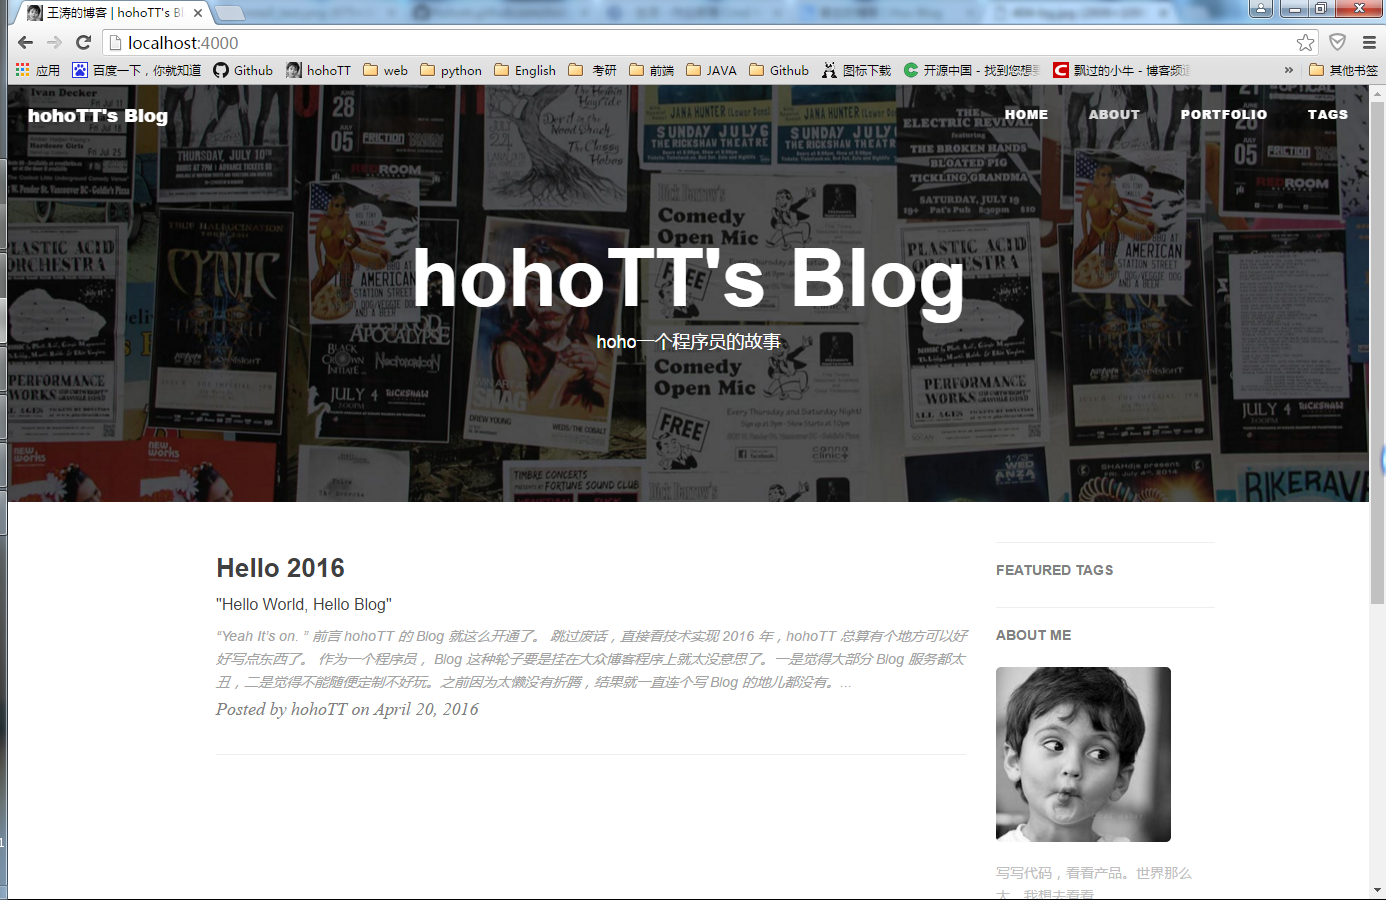
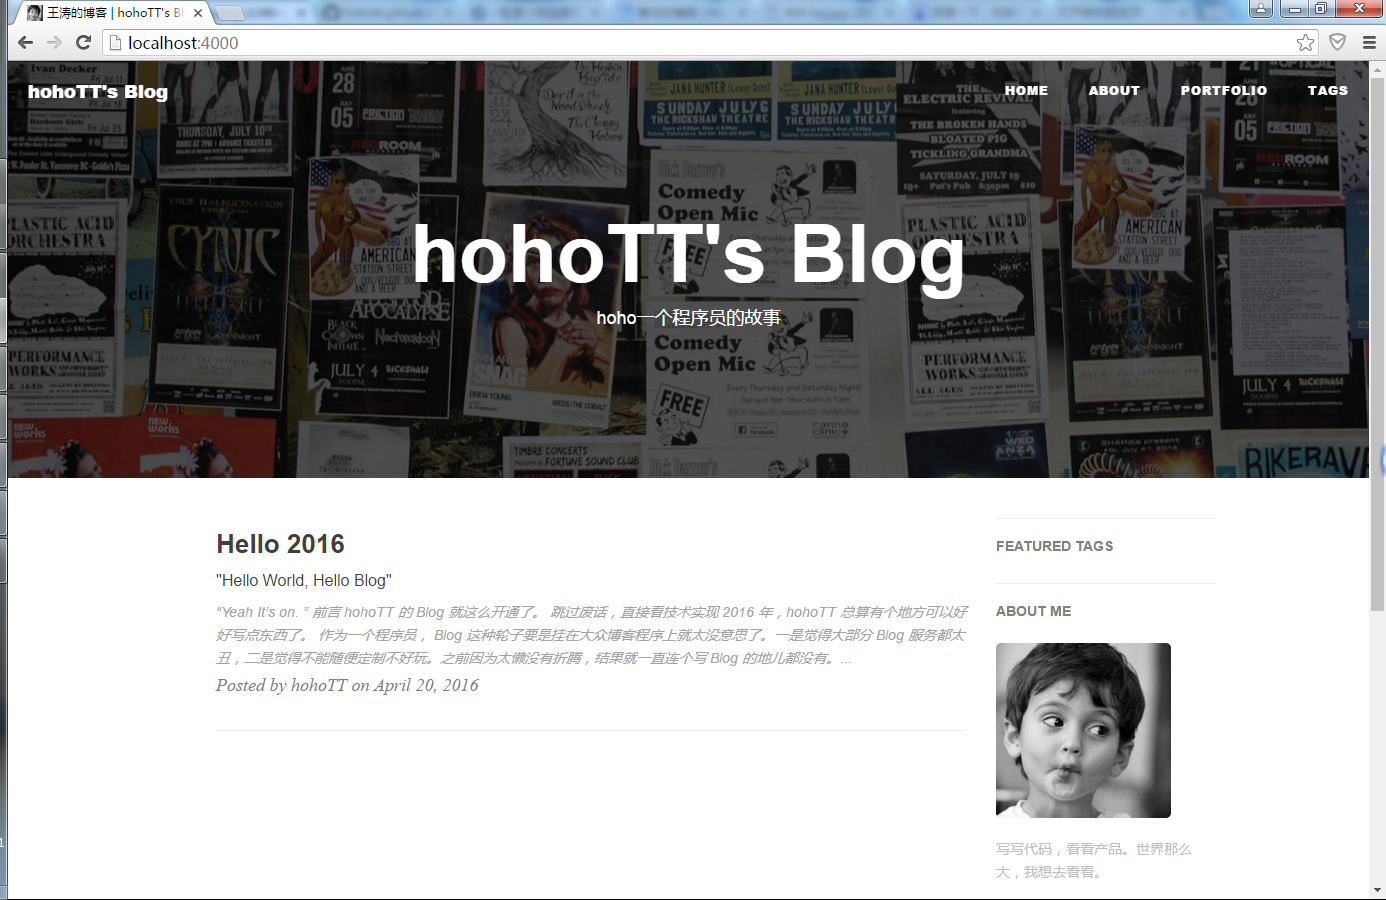
更换图片以及修改博文

diff --git a/README.md b/README.md
@@ -2,7 +2,7 @@
 
 ###[View Live hohoTT Blog &rarr;](http://hohott.github.io)
 
-![](http://huangxuan.me/img/blog-desktop.jpg)
+![](http://www.hohott.wang/img/install_message/run.png)
 
 
 ### "Page Build Warning" email
